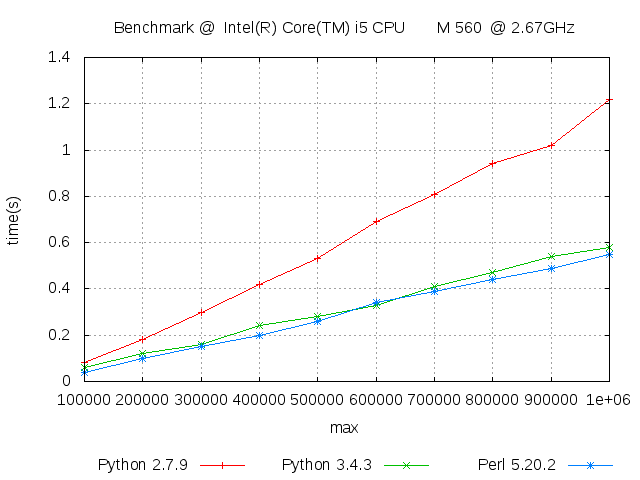
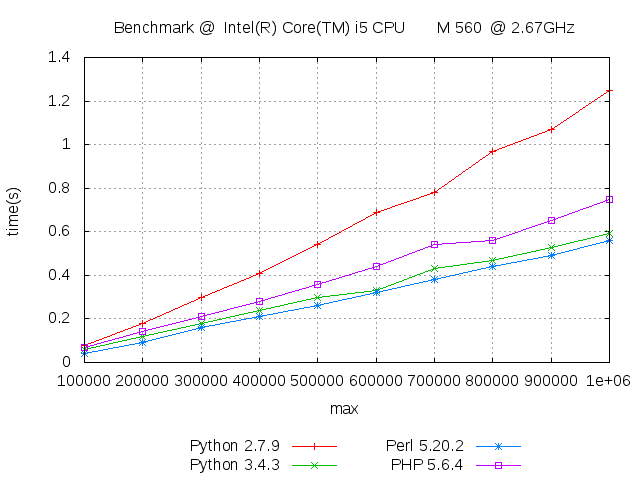
add PHP code to benchmark

diff --git a/primes.php b/primes.php
@@ -1,0 +1,16 @@
+<?php
+if (empty($argv[1])) die('missing parameter limit');
+$limit = (int) $argv[1];
+
+$composite=[];
+for ($n = 2; $n < $limit; $n++)
+	if (empty($composite[$n]))
+		for ($i = $n*$n; $i < $limit; $i += $n)
+			$composite[$i] = true;
+ 
+$numprimes=0;
+for ($n = 2; $n < $limit; $n++)
+	if (empty($composite[$n]))
+		$numprimes++;
+
+echo $numprimes."\n";

diff --git a/README.md b/README.md
@@ -13,7 +13,7 @@ some scripts to run benchmarks on a computer and create simple charts from the r
 ## how to setup
 * grab the files from github 
 * make shure you have all the tools installed:
-  `sudo apt-get install python python3 gnuplot xdg-utils`
+  `sudo apt-get install python python3 perl gnuplot xdg-utils`
 
 ## how to run
 * open a terminal
